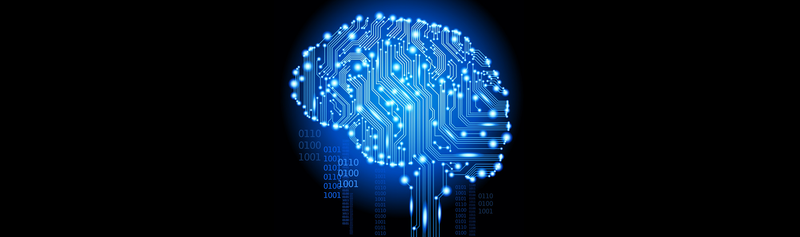
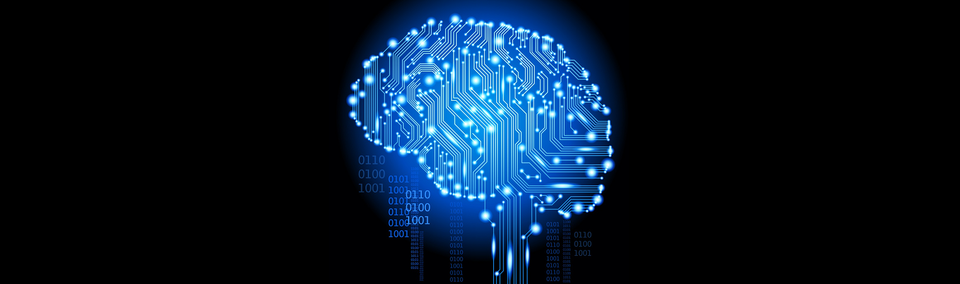
Update.

diff --git a/blog/output/theme/css/main.css b/blog/output/theme/css/main.css
@@ -124,6 +124,10 @@ article {
 	margin-bottom: 80px;
 }
 
+article img {
+    margin:auto;
+}
+
 #readmore {
     float:right;
     font-style: italic;

diff --git a/blog/themes/digitalmind/static/css/main.css b/blog/themes/digitalmind/static/css/main.css
@@ -124,6 +124,10 @@ article {
 	margin-bottom: 80px;
 }
 
+article img {
+    margin:auto;
+}
+
 #readmore {
     float:right;
     font-style: italic;

diff --git a/blog/output/post/artificial-intelligence-resources.html b/blog/output/post/artificial-intelligence-resources.html
@@ -1964,6 +1964,7 @@ article a {
     color: #3d454b;
     font-weight: bold;
 }
+
 </style>
 	</article>	
 

diff --git a/blog/content/ai/ai-resources.md b/blog/content/ai/ai-resources.md
@@ -161,6 +161,7 @@ article a {
     color: #3d454b;
     font-weight: bold;
 }
+
 </style>
 
 
